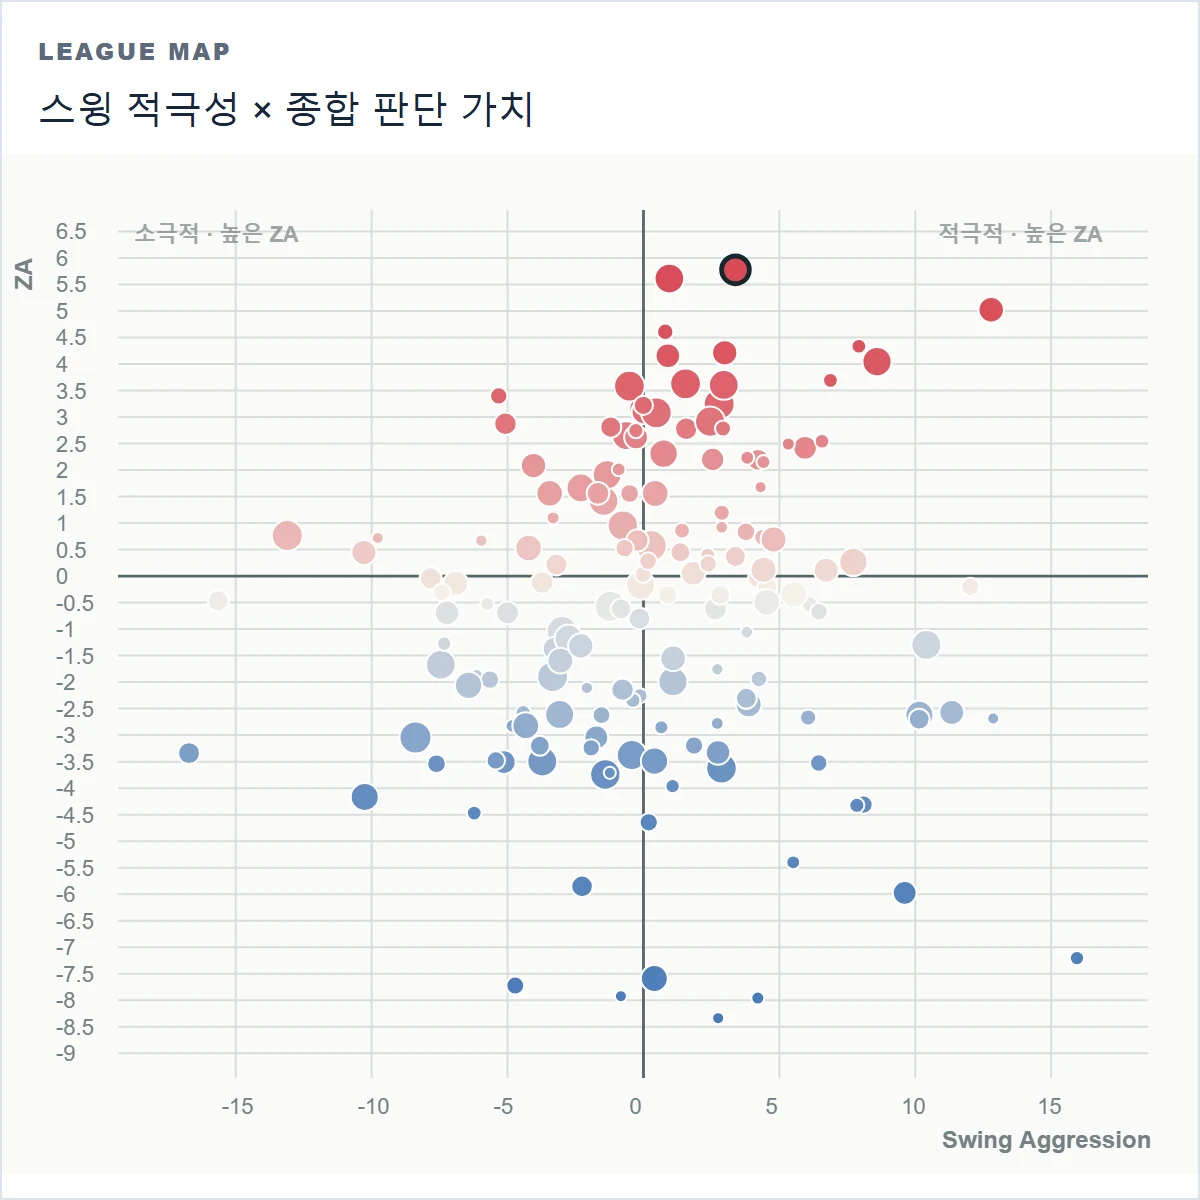
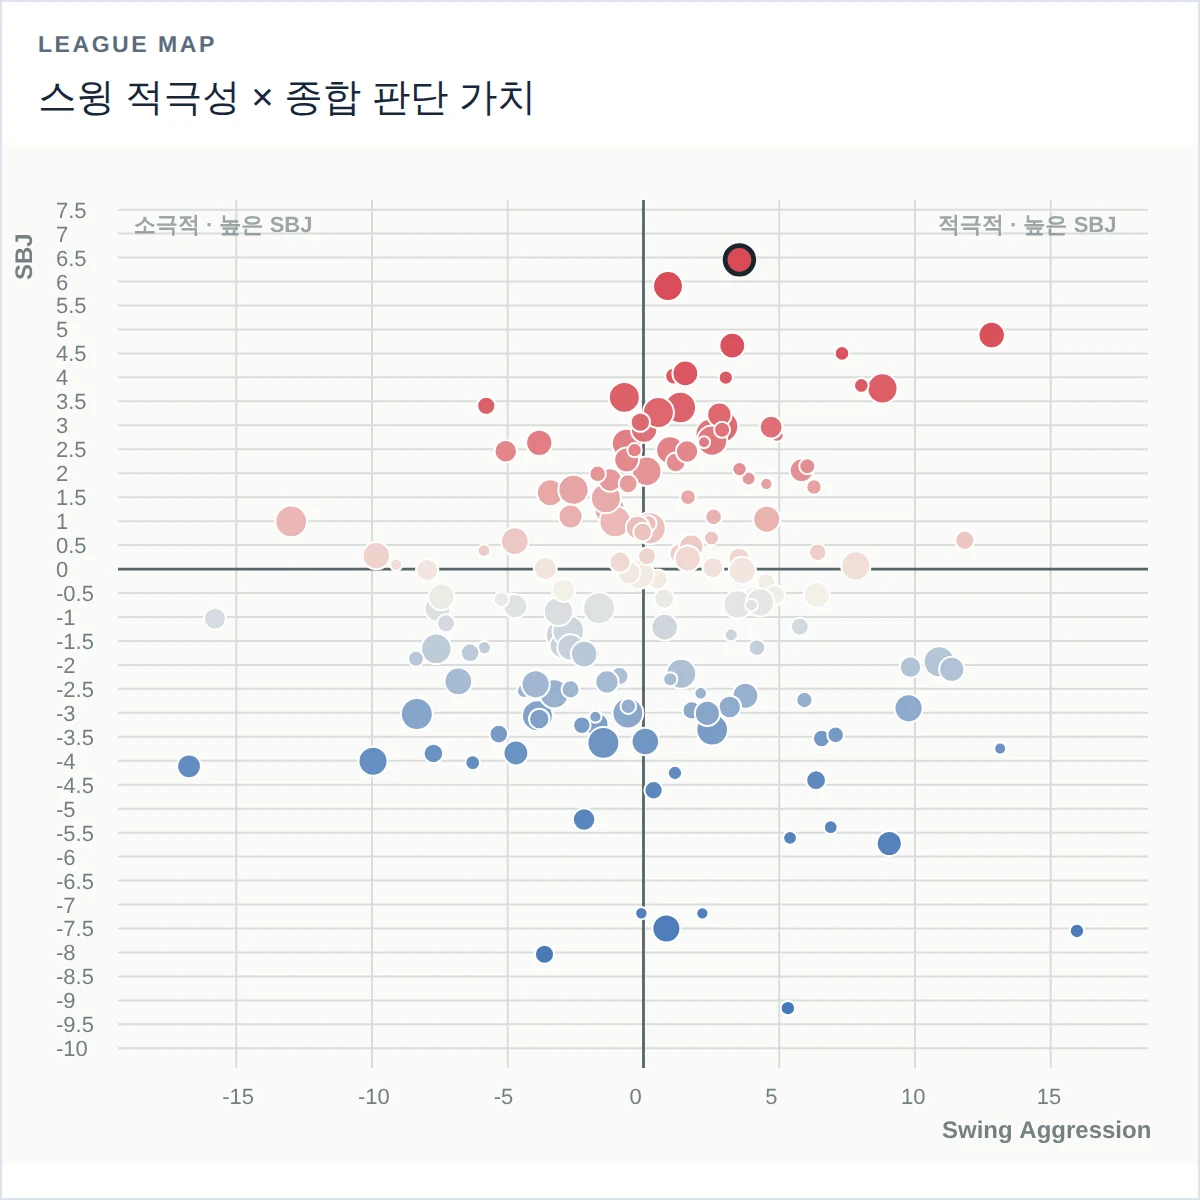
SBJ: extend to 2019-2023 (umpire-call p_zone), refresh thumbnail
Pre-ABS seasons learn p_zone from reported px/pz and the umpire's calls.
2019-2021 have no park workbook, so p_swing reads raw VB movement there.
The page lists 2019-2026 and notes the pre-ABS comparability limit.

Claude-Session: https://claude.ai/code/session_01RYwTWXs4WsfUiv6W3LjU49

diff --git a/web/zone-awareness/zone-awareness.js b/web/zone-awareness/zone-awareness.js
@@ -1,5 +1,5 @@
-// SBJ (za7.2) is published from the 2024 ABS season; 2022-2023 files hold the retired ZA model and are not listed.
-const SBJ_FIRST_SEASON=2024;
+// SBJ (za7.2) is published from 2019. Before the 2024 ABS season p_zone learns the umpire's calls, not the ABS planes.
+const SBJ_FIRST_SEASON=2019,ABS_FIRST_SEASON=2024;
 const $ = (selector) => document.querySelector(selector);
 const thumbnailMode = new URLSearchParams(location.search).get("thumb") === "1";
 const state = { season: null, players: [], sort: "za_percentile", direction: -1, selected: null, profile: null, cell: null };
@@ -37,7 +37,7 @@ async function loadSeason(season) {
   $("#season-method").textContent=state.modern ? `이벤트 확률은 Swing·Take 각각의 조건부 확률입니다. 채택 모델: ${data.selected_value_model==="staged"?"이벤트 분해":"직접 행동 가치"}.` : "이 시즌은 개편 전 지표입니다. ZA는 존 판단, 누적 가치는 기존 DV 산식이며 2024–2026과 직접 비교할 수 없습니다.";
   if(data.schema_version>=5){
     const q=data.data_quality;
-    $("#season-method").textContent=`SBJ · 득점 시점을 확정할 수 없는 ${q.excluded_halves.toLocaleString()}개 공격 이닝, ${q.excluded_pitches.toLocaleString()}구를 제외했습니다. 비투구 사건의 확인된 ${fmt(q.included_timed_nonpitch_runs,0)}득점은 이닝 잔여 득점에 반영했습니다. 일반 볼·스트라이크·파울은 규칙에 따른 상태 전이로 계산하고, 스윙 표본이 적으면 더 넓은 조건의 결과 분포를 함께 사용합니다. 순위는 추정값의 순서이며 선수 간 우열이 확정되었다는 뜻은 아닙니다.`;
+    $("#season-method").textContent=`SBJ · 득점 시점을 확정할 수 없는 ${q.excluded_halves.toLocaleString()}개 공격 이닝, ${q.excluded_pitches.toLocaleString()}구를 제외했습니다. 비투구 사건의 확인된 ${fmt(q.included_timed_nonpitch_runs,0)}득점은 이닝 잔여 득점에 반영했습니다. 일반 볼·스트라이크·파울은 규칙에 따른 상태 전이로 계산하고, 스윙 표본이 적으면 더 넓은 조건의 결과 분포를 함께 사용합니다. 순위는 추정값의 순서이며 선수 간 우열이 확정되었다는 뜻은 아닙니다.`+(state.season<ABS_FIRST_SEASON?` ${state.season}년은 ABS 도입 전이라 스트라이크 확률을 구심 판정으로 학습했습니다. 판정 기준이 달라 2024년 이후 SBJ와 직접 비교할 수 없습니다.${state.season<2022?' 이 시즌은 구장 무브먼트 보정표가 없어 스윙 기대치에 VB 원 무브먼트를 썼습니다.':''}`:'');
   }
   $("#score-za").previousElementSibling.textContent=state.modern?"SBJ":"기존 ZA Raw";
   data.players.forEach(player=>{player.team=teamData.teams?.[player.batter_id]||player.team||"—";});

diff --git a/web/zone-awareness/index.html b/web/zone-awareness/index.html
@@ -66,8 +66,8 @@
       </div>
     </section>
 
-    <section class="method card"><p class="eyebrow">METHOD · 2024–2026</p><h2>읽는 법</h2><div><p><strong>SBJ</strong>(Strike Zone Judgment)는 기대 스윙 대비 실제 선택과 스트라이크 확률로 계산한 순수 존 판단 지표입니다. <strong>DV</strong>는 실제 Swing·Take 선택의 기대득점 누적값이며, <strong>DV/100</strong>은 전체 100구당 환산값, <strong>DV+</strong>는 300구 이상 타자 평균 100·표준편차 15의 리그 상대 지표입니다. Percentile은 시즌 300구 이상 타자 내 SBJ 상대 위치입니다.</p><p><strong>SA</strong>는 실제와 기대 스윙률의 차이로 성향만 나타냅니다.</p><p>SBJ에는 타격 결과와 득점 가치가 사용되지 않습니다. DV의 반대 선택 결과는 리그 평균 실행 능력으로 추정합니다.</p><p><strong>데이터 정정</strong> · 볼로 기록된 번트 파울과 번트 헛스윙은 TrackMan·네이버 중계로 확인해 스윙·테이크에서 뺐고, 대타가 이어받은 카운트와 피치클락 위반은 네이버 중계 카운트로 바로잡았습니다. 보고 위치가 자기 궤적과 1cm 넘게 어긋나는 공(2025년 6구)은 기록이 섞인 것으로 보고 제외했습니다.</p></div><p id="season-method"></p></section>
+    <section class="method card"><p class="eyebrow">METHOD · 2019–2026</p><h2>읽는 법</h2><div><p><strong>SBJ</strong>(Strike Zone Judgment)는 기대 스윙 대비 실제 선택과 스트라이크 확률로 계산한 순수 존 판단 지표입니다. <strong>DV</strong>는 실제 Swing·Take 선택의 기대득점 누적값이며, <strong>DV/100</strong>은 전체 100구당 환산값, <strong>DV+</strong>는 300구 이상 타자 평균 100·표준편차 15의 리그 상대 지표입니다. Percentile은 시즌 300구 이상 타자 내 SBJ 상대 위치입니다.</p><p><strong>SA</strong>는 실제와 기대 스윙률의 차이로 성향만 나타냅니다.</p><p>SBJ에는 타격 결과와 득점 가치가 사용되지 않습니다. DV의 반대 선택 결과는 리그 평균 실행 능력으로 추정합니다.</p><p><strong>데이터 정정</strong> · 볼로 기록된 번트 파울과 번트 헛스윙은 TrackMan·네이버 중계로 확인해 스윙·테이크에서 뺐고, 대타가 이어받은 카운트와 피치클락 위반은 네이버 중계 카운트로 바로잡았습니다. 보고 위치가 자기 궤적과 1cm 넘게 어긋나는 공(2025년 6구)은 기록이 섞인 것으로 보고 제외했습니다.</p></div><p id="season-method"></p></section>
   </main>
-  <script src="zone-awareness.js?v=20260930-sbj1"></script>
+  <script src="zone-awareness.js?v=20260930-sbj2"></script>
 </body>
 </html>

diff --git a/src/visualbaseball/zone_decision.py b/src/visualbaseball/zone_decision.py
@@ -183,6 +183,21 @@ def outcome(row):
  return {'S':'Whiff', 'F':'Foul', 'X':'InPlay', 'B':'Ball', 'T':'CalledStrike'}.get(code)
 
 
+def park_workbook(root, season):
+ return root/'data/park_adjustments'/f'{season}_VB_Park_Adjustment_v1.0.xlsx'
+
+
+def raw_movement(rows):
+ """Movement features without a park workbook: the raw VB HB/IVB, unadjusted."""
+ available=0
+ for r in rows:
+  hb,ivb=old._safe_float(r.get('horizontal_movement_cm')),old._safe_float(r.get('vertical_movement_cm'))
+  ok=not(np.isnan(hb) or np.isnan(ivb)); available+=ok
+  r['adjusted_hb_cm'],r['adjusted_ivb_cm']=(hb,ivb) if ok else (np.nan,np.nan)
+ return {'movement_available':available,'movement_adjusted':0,'adjustment_coverage_pct':0.0,
+  'formula':'no park adjustment workbook for this season: raw Visual Baseball measurement'}
+
+
 def load_rows(root, season):
  rows=load_curated_rows(root,'pitches',season)
  events=load_curated_rows(root,'events',season)
@@ -206,12 +221,13 @@ def load_rows(root, season):
   r['region'] = region(r)
   if pzone_fields(season)==PZONE_ABS: r.update(judgment_plane_location(r))
   valid.append(r)
- movement = old._movement_adjust(valid, root, season)
+ # 2019-2021 have no park workbook: p_swing then reads the raw VB movement (stadium stays a p_swing input).
+ movement = old._movement_adjust(valid, root, season) if park_workbook(root,season).exists() else raw_movement(valid)
  # Retain pre-pitch features, transitions, identity and training target only.
  keep = set(NUMERIC + old.PZONE_NUMERIC + PZONE_ABS + PSWING_CATEGORICAL + ('plane_fallback','game_id','game_date','season','batter_id','batter_name','batter_team','inning_half','event','region','decision_type','_runs_to_end','_re_complete','runs_on_pitch'))
  keep.update(f'{k}_{w}' for k in ('base_state_code','outs','balls','strikes') for w in ('before','after'))
  valid = [{k:v for k,v in r.items() if k in keep} for r in valid]
- for p in (root/'data/curated/players/player_bio.parquet',root/'data/park_adjustments'/f'{season}_VB_Park_Adjustment_v1.0.xlsx'):
+ for p in (root/'data/curated/players/player_bio.parquet',park_workbook(root,season)):
   if p.exists():hashes[p.name]=file_hash(p)
  return sorted(valid, key=lambda r:r['game_id']), {'source':f'data/curated/pitches/season={season}','input_mode':'curated','curated_version':None,'sha256':hashes,'quality':quality,'excluded':dict(excluded), 'movement':movement, 'pzone_input':pzone_input(valid,season), 'unknown_stance':sum(not r['batter_stance'] for r in valid),'unknown_pitcher_hand':sum(not r['pitcher_throws'] for r in valid),'latest_game':max(r['game_id'] for r in valid)}
 

diff --git a/src/visualbaseball/cli.py b/src/visualbaseball/cli.py
@@ -24,6 +24,9 @@ from .curated import normalize_trajectory, pitch_sha256, schema_sha256, source_m
 from .metric_state import mark_built, needs_build
 from .dataset_summary import build_summary
 
+# SBJ seasons. 2024+ judge against the ABS planes; 2019-2023 against the umpire's calls (zone_decision.pzone_fields).
+SBJ_SEASONS = tuple(range(2019, 2027))
+
 
 def _is_final(game: dict) -> bool:
     status = str(game.get("status", ""))
@@ -80,7 +83,7 @@ def _exports(root: Path, season: int, storage_root: Path) -> None:
     if decision_source.exists():
         build("plate_discipline", lambda: build_plate_discipline(root, season, decision_source))
         if pq.read_metadata(decision_source).num_rows >= 1_000:
-            if season in (2024, 2025, 2026):
+            if season in SBJ_SEASONS:
                 build("zone_decision", lambda: build_zone_decision(root, season))
             else:
                 build("plate_decision", lambda: build_plate_decision_v1(root, season, decision_source, web_root=root / "web"))
@@ -121,10 +124,10 @@ def main() -> None:
     root = Path(args.root).resolve()
     storage_root = Path(args.storage_root).resolve() if args.storage_root else root
     if args.only == "zone_decision":
-        # Completed ABS seasons have no Swing/Take decision table, so this skips the
+        # Completed seasons have no Swing/Take decision table, so this skips the
         # _exports() gate; build_zone_decision reads curated data directly.
-        if args.season not in (2024, 2025, 2026):
-            parser.error("--only zone_decision covers the ABS seasons 2024-2026")
+        if args.season not in SBJ_SEASONS:
+            parser.error("--only zone_decision covers the SBJ seasons 2019-2026")
         _build_metric(root, args.season, "zone_decision", lambda: build_zone_decision(root, args.season))
         return
     if args.only == "pitch_arsenal":

diff --git a/scripts/check_zone_decision_outputs.py b/scripts/check_zone_decision_outputs.py
@@ -1,4 +1,4 @@
-"""Fail unless every ABS season's ZA/SBJ output comes from the current code and agrees,
+"""Fail unless every SBJ season's output comes from the current code and agrees,
 and every Pitch Plot season carries the current profile schema and build state.
 
 daily_update runs this before anything is published (Release upload, data commit, and
@@ -12,11 +12,12 @@ import json
 import sys
 from pathlib import Path
 
+from visualbaseball.cli import SBJ_SEASONS
 from visualbaseball.metric_state import _path, metric_input_hash
 from visualbaseball.pitch_arsenal import PITCH_ARSENAL_SEASONS, PROFILE_SCHEMA_VERSION
 from visualbaseball.zone_decision import MODEL_VERSION
 
-SEASONS = (2024, 2025, 2026)
+SEASONS = SBJ_SEASONS
 
 
 def _shard(batter_id: str) -> str:

diff --git a/tests/test_zone_decision_outputs_gate.py b/tests/test_zone_decision_outputs_gate.py
@@ -25,8 +25,8 @@ def _season(root, season, version="v2", za=1.5):
 def _root(tmp_path, monkeypatch):
     monkeypatch.setattr(gate, "metric_input_hash", lambda root, season, name: f"h{season}")
     (tmp_path / "web/data/zone_awareness").mkdir(parents=True)
-    (tmp_path / "web/data/zone_awareness/index.json").write_text(json.dumps({"seasons": [2026, 2025, 2024]}), encoding="utf-8")
-    for season in (2024, 2025, 2026):
+    (tmp_path / "web/data/zone_awareness/index.json").write_text(json.dumps({"seasons": sorted(gate.SEASONS, reverse=True)}), encoding="utf-8")
+    for season in gate.SEASONS:
         _season(tmp_path, season)
     return tmp_path
 

diff --git a/analysis/zone_decision/README.md b/analysis/zone_decision/README.md
@@ -1,4 +1,4 @@
-# ZA v7 · strike-zone judgment and decision value · 2024–2026
+# ZA v7 · strike-zone judgment and decision value · 2019–2026
 
 ZA is `100 * mean((S - p_swing) * (2*p_zone - 1))`, where p_zone comes from the take-only CalledStrike vs Ball/HBP model reused from `plate_decision_v1`. ZA is also the official SBJ ranking score: raw judgment accuracy `zone_judgment_pct` minus league-policy accuracy `expected_zone_judgment_pct` equals it exactly, so SBJ has no separate formula and the raw accuracy is descriptive only.
 
@@ -6,7 +6,7 @@ In ABS seasons (2024+) p_zone reads the judgment planes instead of the front-pla
 
 ## Model change map
 
-Keep metric edits to `zone_awareness()`, `decision_value()`, and `profile_summary()` in `src/visualbaseball/zone_decision.py`. `SCORE_SETTINGS` and `score_crossfit()` own fixed model settings and out-of-block scoring; `write_web()` only serializes the five displayed metrics. Rebuild a changed season with `python -m visualbaseball.zone_decision --seasons YEAR` after its season Excel is current. Every `daily_update` run also calls `python -m visualbaseball.cli --season <2024|2025> --only zone_decision`, which rebuilds a completed ABS season from stored curated data only when its metric_state input or code hash changed (the check takes well under a second otherwise). `scripts/check_zone_decision_outputs.py` then requires all three seasons to share the current `MODEL_VERSION`, player files, CSV and build state before the Release upload and the data commit.
+Keep metric edits to `zone_awareness()`, `decision_value()`, and `profile_summary()` in `src/visualbaseball/zone_decision.py`. `SCORE_SETTINGS` and `score_crossfit()` own fixed model settings and out-of-block scoring; `write_web()` only serializes the five displayed metrics. Rebuild a changed season with `python -m visualbaseball.zone_decision --seasons YEAR` after its season Excel is current. Every `daily_update` run also calls `python -m visualbaseball.cli --season <2019…2025> --only zone_decision`, which rebuilds a completed season from stored curated data only when its metric_state input or code hash changed (the check takes well under a second otherwise). `scripts/check_zone_decision_outputs.py` then requires all three seasons to share the current `MODEL_VERSION`, player files, CSV and build state before the Release upload and the data commit.
 
 ## Inputs and scoring states
 
